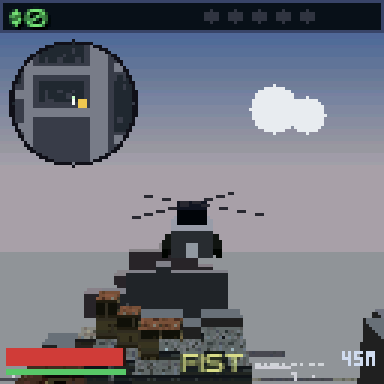
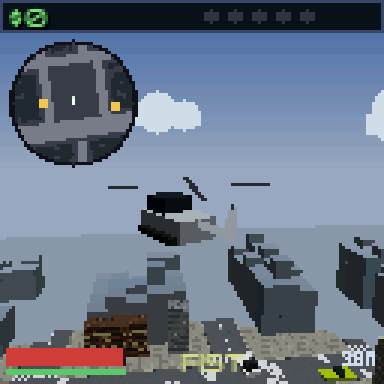
Fix getting into the helicopter, reshape it and the truck, quicker sports cars
COULD NOT GET IN. VSTAT[VEH_HELI].wid was 7.0 -- set equal to len so the mesh's
wid/len squeeze would be a no-op. draw_vehicle_mesh skips that squeeze for the
helicopter outright now, so the only things wid still drove were the PHYSICS
BOX and the shadow, and a 7 m square collision box held the player 3.5 m off
the centre on every side. The entry test allowed 3.74 m from the centre, so RB
cycled your weapon instead of putting you in it. wid is now the real 2.6 m.

The entry reach also scales with the vehicle's length now (1.9 m past half its
length) instead of a flat 3.74 m from the centre, which works for cars because
they are all about 4.5 m long and fails for anything bigger. car_in_reach and
the USE branch share one function so the two can never disagree about which
vehicle RB takes. Measured end to end: BRING HELI, walk forward, RB -- enters
at 3.47 m, where the old radius refused.

THE HELICOPTER WAS TWO STACKED BOXES. The canopy ran 94 units back against 68
of width, a long rectangle on a longer one. It is now 68 x 68, square in plan
and over the nose, and both fuselage and canopy are shallower (body_h 54 -> 44,
cab_top 86 -> 76) so the whole thing stops reading as one block.

THE TRUCK WAS A BOX VAN. Its cabin ran -30..80 at 92% of the body width -- one
slab most of the length of the chassis. The cab is now 34..96 at 84%, about a
quarter of the length and up at the front, so z 96..127 reads as the engine,
[…]

diff --git a/games/grandthumbauto3/src/game.c b/games/grandthumbauto3/src/game.c
@@ -962,16 +962,24 @@ static const uint8_t CAR_CLS[54] = {
  /*40*/14,10, 0, 1,12, 0, 1,13,   /* yellow cab, estate, blk sedan, orange cmp, old pickup, maroon sedan, teal cmp, beige jeep */
  /*48*/ 4, 4, 8, 4, 3, 3 };        /* Countach, lime lambo, green speedster, F40, red coupe, silver 911 */
 /*                        accel maxspd turn  grip  massx */
+/* accel · maxspd · turn · grip (tyre lat_damp) · mass factor.
+ *
+ * The SPORTS tier was barely quicker than a taxi: 25 against the sedan's 18,
+ * on a scale where vmax is maxspd * 1.3. It now runs 28 (131 km/h against the
+ * sedan's 84) with grip up from 26 to 29 and more steering authority, so it
+ * both goes and holds on. RACER is lifted with it to keep the supercars above
+ * the sports cars rather than beside them, and CLASSICSPT gets a smaller lift
+ * so the old sports cars stay characterful without matching the modern ones. */
 static const float CLS_STAT[19][5] = {
  /* SEDAN     */ { 25, 18, 2.4f, 22, 1.00f },
  /* COMPACT   */ { 26, 18, 2.7f, 24, 0.95f },
  /* COUPE     */ { 27, 20, 2.6f, 22, 1.00f },
- /* SPORTS    */ { 34, 25, 2.8f, 26, 0.95f },
- /* RACER     */ { 38, 27, 3.0f, 28, 0.90f },
+ /* SPORTS    */ { 39, 28, 3.05f, 29, 0.92f },
+ /* RACER     */ { 43, 31, 3.25f, 31, 0.88f },
  /* MUSCLE    */ { 33, 24, 2.1f, 15, 1.15f },
  /* HOTHATCH  */ { 30, 21, 2.9f, 25, 0.90f },
  /* CLASSIC   */ { 21, 16, 2.2f, 20, 1.10f },
- /* CLASSICSPT*/ { 30, 22, 2.6f, 22, 1.00f },
+ /* CLASSICSPT*/ { 33, 24, 2.8f, 25, 1.00f },
  /* LUXURY    */ { 24, 19, 2.1f, 18, 1.25f },
  /* WAGON     */ { 22, 16, 2.2f, 20, 1.10f },
  /* VAN       */ { 19, 15, 1.8f, 20, 1.20f },
@@ -991,13 +999,13 @@ static void build_vstats(void) {
     }
     VSTAT[VEH_BUS] =(VStat){ 12, 12, 1.2f, 3.4f, 8.6f, 3.77f, 22 };   /* +10%%: wider would block 2-lane roads */
     VSTAT[VEH_TANK]=(VStat){ 9,  8,  1.5f, 8.0f, 6.2f,  3.92f, 28 };
-    /* len == wid on purpose. draw_vehicle_mesh squeezes x by wid/len to undo
-     * the mesh's square authoring, assigning ONE x to all four corners of both
-     * third-box slabs at once. That is right for axles, which each span the
-     * full track, and wrong for skids, which are one per side — it would
-     * collapse both rails onto the centreline. An aspect of exactly 1 leaves
-     * the authored shape alone, which is what the SILDEF row already draws. */
-    VSTAT[VEH_HELI]=(VStat){ 7, 24, 1.9f, 3.0f, 7.0f,  7.0f,   6 };
+    /* wid is the real 2.6 m, not len. It was 7.0 to make the mesh's wid/len
+     * squeeze a no-op, but draw_vehicle_mesh skips that squeeze for the
+     * helicopter outright now, so the only things wid still drives are the
+     * PHYSICS BOX and the shadow — and a 7 m square collision box held the
+     * player 3.5 m off the centre on every side, which is outside the reach
+     * test, so RB could never get you in. That was the bug. */
+    VSTAT[VEH_HELI]=(VStat){ 7, 24, 1.9f, 3.0f, 7.0f,  2.6f,   6 };
 }
 
 typedef struct { float x,z,yaw,spd; uint8_t variant, alive, hp; float animt; float flee;
@@ -1393,7 +1401,14 @@ static void spawn_world(void) {
     /* traffic + parked cars, well-spaced on roads, each FACING ALONG the street */
     for (int i=0;i<NCAR;i++){ float ox,oz;                    /* moving traffic (cars[0] becomes jackable) */
         if (i<8 && find_road_clear(player.x,player.z, 12.0f, 62.0f, &ox,&oz)){
-            int ty=irand(NCARTYPE); if(ty==CAR_POLICE||ty==CAR_POLICE2||ty==CAR_FIRETRUCK)ty=CAR_SEDAN; if(irand(20)==0)ty=VEH_BUS;  /* buses rare */
+            int ty=irand(NCARTYPE); if(ty==CAR_POLICE||ty==CAR_POLICE2||ty==CAR_FIRETRUCK)ty=CAR_SEDAN;
+#ifdef MOTE_HOST
+        /* test: MOTE_GTA_CARTYPE=<n> forces the starter car's type, which is
+         * how a silhouette gets looked at. Traffic types are random, so
+         * catching a specific one on camera otherwise means driving around
+         * until one turns up. See CAR_CLS for which type is which class. */
+        { const char *f=getenv("MOTE_GTA_CARTYPE"); if(f) ty=atoi(f); }
+#endif if(irand(20)==0)ty=VEH_BUS;  /* buses rare */
             float yaw; place_in_lane(&ox,&oz,&yaw);              /* right lane, facing along the street */
             cars[i]=(Car){ ox,oz,yaw,0,(uint8_t)ty,DRV_NPC,1 };
             npc_target[i]=yaw; stuck_t[i]=0;
@@ -1402,6 +1417,13 @@ static void spawn_world(void) {
     /* a jackable car right next to the player — a RANDOM type each run */
     { float ox,oz; if (find_near(player.x,player.z, 2.0f, 3.4f, is_drivable, &ox,&oz)){
         int ty=irand(NCARTYPE); if(ty==CAR_POLICE||ty==CAR_POLICE2||ty==CAR_FIRETRUCK)ty=CAR_SEDAN;
+#ifdef MOTE_HOST
+        /* test: MOTE_GTA_CARTYPE=<n> forces the starter car's type, which is
+         * how a silhouette gets looked at. Traffic types are random, so
+         * catching a specific one on camera otherwise means driving around
+         * until one turns up. See CAR_CLS for which type is which class. */
+        { const char *f=getenv("MOTE_GTA_CARTYPE"); if(f) ty=atoi(f); }
+#endif
         cars[0]=(Car){ ox,oz, road_heading((int)(ox/TILE),(int)(oz/TILE)), 0, (uint8_t)ty,DRV_NONE,1 }; } }
     /* pedestrians on nearby pavement/grass */
     for (int i=0;i<NPED;i++){ float ox,oz;                    /* ~22 pedestrians; rest free for foot-cops */
@@ -4732,6 +4754,13 @@ static void dm_recycle_traffic(float dt){
     float ox,oz;
     if(find_road_clear(tx,tz, 26.0f, 52.0f, &ox,&oz)){
         int ty=irand(NCARTYPE); if(ty==CAR_POLICE||ty==CAR_POLICE2||ty==CAR_FIRETRUCK)ty=CAR_SEDAN;
+#ifdef MOTE_HOST
+        /* test: MOTE_GTA_CARTYPE=<n> forces the starter car's type, which is
+         * how a silhouette gets looked at. Traffic types are random, so
+         * catching a specific one on camera otherwise means driving around
+         * until one turns up. See CAR_CLS for which type is which class. */
+        { const char *f=getenv("MOTE_GTA_CARTYPE"); if(f) ty=atoi(f); }
+#endif
         cars[far]=(Car){ ox,oz, road_heading((int)(ox/TILE),(int)(oz/TILE)), 0,(uint8_t)ty,DRV_NPC,1,100.0f,0 };
         car_body_init(far);
     }
@@ -4828,6 +4857,13 @@ static void reset_game_dm_finish(uint32_t seed){
             float sxp=(i==0)?axp:bxp, szp=(i==0)?azp:bzp, ox,oz;
             if (find_near(sxp,szp, 2.0f, 8.0f, is_drivable, &ox,&oz)){
                 int ty=irand(NCARTYPE); if(ty==CAR_POLICE||ty==CAR_POLICE2||ty==CAR_FIRETRUCK)ty=CAR_SEDAN;
+#ifdef MOTE_HOST
+        /* test: MOTE_GTA_CARTYPE=<n> forces the starter car's type, which is
+         * how a silhouette gets looked at. Traffic types are random, so
+         * catching a specific one on camera otherwise means driving around
+         * until one turns up. See CAR_CLS for which type is which class. */
+        { const char *f=getenv("MOTE_GTA_CARTYPE"); if(f) ty=atoi(f); }
+#endif
                 cars[i]=(Car){ ox,oz, road_heading((int)(ox/TILE),(int)(oz/TILE)), 0,(uint8_t)ty, DRV_NONE,1,100.0f,0 };
                 continue;
             }
@@ -4835,6 +4871,13 @@ static void reset_game_dm_finish(uint32_t seed){
         for (int t=0;t<80;t++){ int tx=2+irand(MAPW-4), tz=2+irand(MAPH-4);
             if (parked ? !is_drivable(tx,tz) : !is_road(tx,tz)) continue;
             int ty=irand(NCARTYPE); if(ty==CAR_POLICE||ty==CAR_POLICE2||ty==CAR_FIRETRUCK)ty=CAR_SEDAN;
+#ifdef MOTE_HOST
+        /* test: MOTE_GTA_CARTYPE=<n> forces the starter car's type, which is
+         * how a silhouette gets looked at. Traffic types are random, so
+         * catching a specific one on camera otherwise means driving around
+         * until one turns up. See CAR_CLS for which type is which class. */
+        { const char *f=getenv("MOTE_GTA_CARTYPE"); if(f) ty=atoi(f); }
+#endif
             cars[i]=(Car){ tx*TILE+TILE*0.5f, tz*TILE+TILE*0.5f,
                            road_heading(tx,tz), 0,(uint8_t)ty, parked?DRV_NONE:DRV_NPC, 1,100.0f,0 };
             break; }
@@ -4923,7 +4966,14 @@ static void dm_draw_remote(void){
 static void respawn_npc(int i) {
     float ox,oz;
     if (find_road_clear(pl_x(),pl_z(), 46.0f, 78.0f, &ox,&oz)){
-        int ty=irand(NCARTYPE); if(ty==CAR_POLICE||ty==CAR_POLICE2||ty==CAR_FIRETRUCK)ty=CAR_SEDAN;   /* no far-recycled buses */
+        int ty=irand(NCARTYPE); if(ty==CAR_POLICE||ty==CAR_POLICE2||ty==CAR_FIRETRUCK)ty=CAR_SEDAN;
+#ifdef MOTE_HOST
+        /* test: MOTE_GTA_CARTYPE=<n> forces the starter car's type, which is
+         * how a silhouette gets looked at. Traffic types are random, so
+         * catching a specific one on camera otherwise means driving around
+         * until one turns up. See CAR_CLS for which type is which class. */
+        { const char *f=getenv("MOTE_GTA_CARTYPE"); if(f) ty=atoi(f); }
+#endif   /* no far-recycled buses */
         float yaw; place_in_lane(&ox,&oz,&yaw);                   /* right lane, facing along the street */
         cars[i]=(Car){ ox,oz,yaw,0,(uint8_t)ty,DRV_NPC,1,100,0 };
         car_body_init(i); npc_target[i]=yaw; stuck_t[i]=0;
@@ -5675,15 +5725,28 @@ static int load_game(void) {
  * already yours, not the peer's in a deathmatch). RB on foot is contextual —
  * use when something is in reach, cycle weapon otherwise — and if these two
  * tests ever drifted apart a single press would do both. */
-static int car_in_reach(void) {
+/* The nearest vehicle you could get into, or -1.
+ *
+ * The reach scales with the vehicle's LENGTH instead of being a flat 3.74 m
+ * from its centre. A flat radius works for cars because they are all about
+ * 4.5 m long; it fails for anything bigger, and it failed completely for the
+ * 7 m helicopter, whose own collision box holds you further out than the
+ * radius allowed — so RB cycled your weapon instead of putting you in it.
+ *
+ * Shared with the USE branch so the two can never disagree: if this says a
+ * vehicle is in reach, that is the vehicle RB takes. */
+static int car_reach_pick(void) {
+    int best = -1; float bd = 1e9f;
     for (int i = 0; i < NCAR; i++) {
         if (!cars[i].alive || cars[i].wrecked || cars[i].driver == DRV_PLAYER) continue;
         if (g_dm && i == dm_peer_car) continue;
-        float dx = cars[i].x - player.x, dz = cars[i].z - player.z;
-        if (dx*dx + dz*dz < 14.0f) return 1;
+        float dx = cars[i].x - player.x, dz = cars[i].z - player.z, d = dx*dx + dz*dz;
+        float r = 1.9f + VSTAT[cars[i].type].len * 0.5f;   /* arm's length past the hull */
+        if (d < r*r && d < bd) { bd = d; best = i; }
     }
-    return 0;
+    return best;
 }
+static int car_in_reach(void) { return car_reach_pick() >= 0; }
 
 static void g_update(float dt) {
     const MoteInput *in = mote->input();
@@ -6165,11 +6228,7 @@ static void g_update(float dt) {
             if (near_marker(MK_GUN, 3.0f))        buy_gun();
             else if (near_marker(MK_PHONE, 3.0f)) start_mission();
             else {
-                int best=-1; float bd=14.0f;
-                for (int i=0;i<NCAR;i++){ if(!cars[i].alive||cars[i].wrecked||cars[i].driver==DRV_PLAYER) continue;
-                    if (g_dm && i==dm_peer_car) continue;           /* the peer is driving this one */
-                    float dx=cars[i].x-player.x, dz=cars[i].z-player.z, d=dx*dx+dz*dz;
-                    if (d<bd){bd=d;best=i;} }
+                int best = car_reach_pick();
                 if (best>=0) {
                     if (cars[best].driver==DRV_COP) {            /* eject a fighting officer */
                         float ry=cars[best].yaw+1.5708f;

diff --git a/games/grandthumbauto3/src/gta3_veh.c b/games/grandthumbauto3/src/gta3_veh.c
@@ -76,7 +76,13 @@ static const Sil SILDEF[GTA3_SIL_N] = {
     /* LONGHOOD   */ { 32, 58, -72,  14, 86 },
     /* WAGON      */ { 40, 74, -55,  55, 90 },
     /* VAN        */ { 46, 96, -80,  70, 94 },
-    /* TRUCK      */ { 44, 88, -30,  80, 92 },
+    /* TRUCK: short cab set FORWARD, with a bonnet in front of it and a long
+     * flat bed behind. It used to run the cabin from -30 to 80 at 92% of the
+     * body width, which is a box van: one slab most of the length of the
+     * chassis. The cab is now 34..96 — about a quarter of the length, up at
+     * the front — so z 96..127 reads as the engine and everything behind 34 is
+     * open deck. Narrower too, at 84%, so the bed's sides show past it. */
+    /* TRUCK      */ { 40, 92,  34,  96, 84 },
     /* LUXURY     */ { 32, 58, -62,  30, 88 },   /* longer bonnet, lower roof than SEDAN */
     /* RACER      */ { 20, 36, -52,   8, 80 },   /* lowest of the lot, shallow glasshouse */
     /* PICKUP     */ { 38, 74, -18,  62, 90 },   /* cab over the front half; bed behind is bare body */
@@ -85,15 +91,19 @@ static const Sil SILDEF[GTA3_SIL_N] = {
     /* CLASSICSPT */ { 32, 60, -58,   6, 84 },   /* long bonnet under a tall upright glasshouse */
     /* TAXI       */ { 38, 70, -52,  44, 90 },   /* a sedan made taller and squarer */
     /* HELI: the three boxes read as an aircraft rather than a car.
-     *   body_h 54 / cab_top 86 — a deep fuselage under a tall bubble canopy.
-     *   cab_z0 24 / cab_z1 118 — the canopy sits over the NOSE, which is what
-     *     separates a helicopter from a car at a glance.
+     *   body_h 44 / cab_top 76 — a shallower fuselage under a lower canopy.
+     *     At 54/86 both boxes were deep enough that the whole thing read as
+     *     one stacked block.
+     *   cab_z0 50 / cab_z1 118 — the canopy is now 68 units long against its
+     *     68 units of width, i.e. SQUARE in plan and sitting over the nose. It
+     *     used to run 94 units back, which is a long rectangle on top of a
+     *     longer one: two boxes, nothing aircraft about it.
      *   cab_w 78 — narrower than the fuselage, so the canopy reads as glass
      *     set into the shell rather than a second storey.
      * The fuselage itself is cut short at z = -24 (see gta3_veh_build); the
      * tail boom and both rotors are triangles the caller draws, because a
      * rotor spins and this mesh is built once at init. */
-    /* HELI       */ { 54, 86,  24, 118, 78 },
+    /* HELI       */ { 44, 76,  50, 118, 78 },
 };
 
 void gta3_box(MeshVert *v, MeshFace *f, int *nf,

diff --git a/games/grandthumbauto3/src/test_veh.c b/games/grandthumbauto3/src/test_veh.c
@@ -289,6 +289,38 @@ int main(void) {
         ok(gta3_lamp_style(999) == GTA3_LAMP_ROUND, "huge silhouette falls back to round");
     }
 
+    /* SHAPE CHECKS for the two silhouettes that are meant to read as something
+     * other than a car. Both were wrong on first authoring in exactly the way
+     * these assert against: one long box stacked on another. */
+    {
+        Gta3VehMesh m;
+        gta3_veh_build(&m, GTA3_SIL_TRUCK);
+        float bz0,bz1, cz0,cz1, bx0,bx1, cx0,cx1;
+        span(m.bv,&bz0,&bz1,2); span(m.cv,&cz0,&cz1,2);
+        span(m.bv,&bx0,&bx1,0); span(m.cv,&cx0,&cx1,0);
+        /* A truck is a short cab up front, not a box van: the cab takes well
+         * under half the chassis and sits in its forward half. */
+        ok((cz1-cz0) < (bz1-bz0) * 0.45f, "the truck cab is under half the chassis long");
+        ok((cz0+cz1) * 0.5f > 0.0f,        "the truck cab sits in the forward half");
+        ok(cz1 < bz1,                      "there is a bonnet in front of the truck cab");
+        ok((bz1-bz0) - (cz1-cz0) > (bz1-bz0) * 0.5f, "and a long flat bed behind it");
+        ok(cx1 < bx1,                      "the truck bed is wider than its cab");
+    }
+    {
+        Gta3VehMesh m;
+        gta3_veh_build(&m, GTA3_SIL_HELI);
+        float cz0,cz1, cx0,cx1, by0,by1, cy0,cy1;
+        span(m.cv,&cz0,&cz1,2); span(m.cv,&cx0,&cx1,0);
+        span(m.bv,&by0,&by1,1); span(m.cv,&cy0,&cy1,1);
+        /* The canopy is SQUARE in plan. As a long rectangle on a longer one it
+         * read as a stacked block rather than an aircraft. */
+        float len = cz1-cz0, wid = cx1-cx0;
+        ok(len > wid*0.8f && len < wid*1.25f, "the helicopter canopy is square in plan");
+        ok(cz1 > 0.0f,                        "and sits over the nose");
+        ok((cy1-cy0) < len,                   "the canopy is wider than it is tall");
+        ok((by1-by0) < len,                   "and so is the fuselage");
+    }
+
     printf(s_fail ? "FAILED (%d)\n" : "passed\n", s_fail);
     return s_fail ? 1 : 0;
 }
